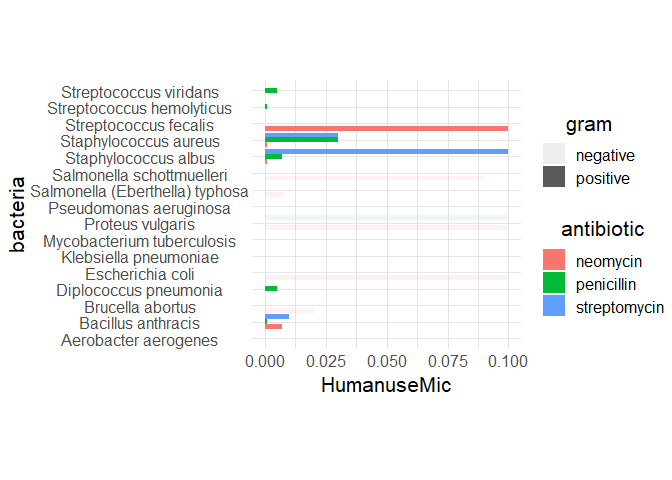
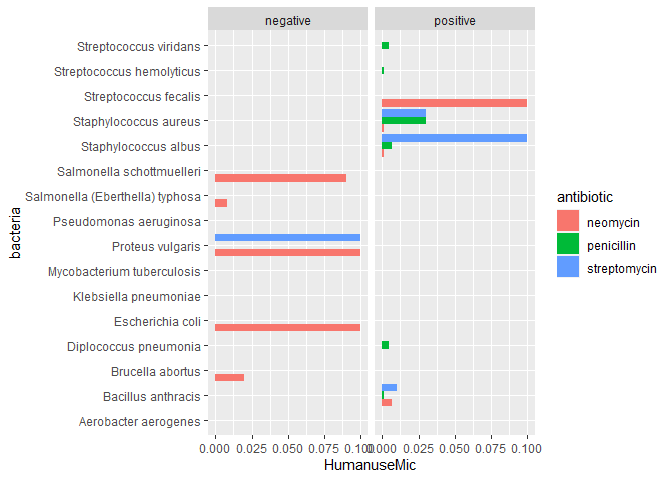
challenge 5 revisions

diff --git a/challenges/c05-antibiotics-assignment.md b/challenges/c05-antibiotics-assignment.md
@@ -210,11 +210,12 @@ positive or negative.
 # WRITE YOUR CODE HERE
 
 df_antibiotic_long %>%
-  mutate(logMic = log(mic)) %>% 
+  #mutate(logMic = log(mic)) %>% 
   arrange(gram) %>% 
-  ggplot(aes(antibiotic, bacteria, fill = logMic, color = gram)) +
+  ggplot(aes(antibiotic, bacteria, fill = mic)) +
   geom_tile() +
-  theme_common()
+  scale_fill_continuous(trans = "log10") +
+  facet_wrap( ~gram)
 ```
 
 ![](c05-antibiotics-assignment_files/figure-gfm/q1.1-1.png)<!-- -->
@@ -230,10 +231,10 @@ your other visuals.
 
 ``` r
 df_antibiotic_long %>%
-  mutate(logMic = log(mic)) %>% 
-  ggplot(aes(logMic, bacteria, color = antibiotic, shape = gram)) +
-  geom_point() +
-  theme_common()
+  ggplot(aes(mic, bacteria, fill = antibiotic)) +
+  geom_col(position = "dodge")+
+  facet_wrap( ~gram) +
+  scale_x_log10()
 ```
 
 ![](c05-antibiotics-assignment_files/figure-gfm/q1.2-1.png)<!-- -->
@@ -252,14 +253,14 @@ your other visuals.
 df_antibiotic_long %>%
   mutate(HumanuseMic = na_if(mic, mic <= 0.1)) %>% 
   #filter(mic <= 0.1) %>% 
-  ggplot(aes(bacteria, HumanuseMic, fill = antibiotic, alpha = gram)) +
+  ggplot(aes(bacteria, HumanuseMic, fill = antibiotic)) + #, alpha = gram
   geom_col(position = "dodge") +
-  coord_flip()+
-  theme_common()+
+  #scale_alpha_discrete(range = c(0.4, 1)) +
+  coord_flip() +
+  facet_wrap( ~gram) +
+  #theme_common()+
   ylim(0, 0.1)
 ```
-
-    ## Warning: Using alpha for a discrete variable is not advised.
 
     ## Warning: Removed 29 rows containing missing values (`geom_col()`).
 
@@ -276,11 +277,13 @@ your other visuals.
 
 ``` r
 # WRITE YOUR CODE HERE
+wid <- 0.5
+
 df_antibiotic_long %>%
   #arrange(desc(mic)) %>% 
   ggplot(aes(mic, bacteria, color = antibiotic, shape = gram)) +
-  geom_point() +
-  theme_common()+
+  geom_point(position = position_dodge(width = wid)) +
+  #theme_common()+
   xlim(0, 0.1)
 ```
 
@@ -299,12 +302,56 @@ your other visuals.
 
 ``` r
 # WRITE YOUR CODE HERE
-df_antibiotic_long %>%
-  mutate(logMic = log(mic)) %>% 
-  arrange(desc(gram)) %>% 
-  ggplot(aes(gram, bacteria, fill = logMic)) +
-  geom_tile() +
-  theme_common()
+df_antibiotics
+```
+
+    ## # A tibble: 16 × 5
+    ##    bacteria                        penicillin streptomycin neomycin gram    
+    ##    <chr>                                <dbl>        <dbl>    <dbl> <chr>   
+    ##  1 Aerobacter aerogenes               870             1       1.6   negative
+    ##  2 Brucella abortus                     1             2       0.02  negative
+    ##  3 Bacillus anthracis                   0.001         0.01    0.007 positive
+    ##  4 Diplococcus pneumonia                0.005        11      10     positive
+    ##  5 Escherichia coli                   100             0.4     0.1   negative
+    ##  6 Klebsiella pneumoniae              850             1.2     1     negative
+    ##  7 Mycobacterium tuberculosis         800             5       2     negative
+    ##  8 Proteus vulgaris                     3             0.1     0.1   negative
+    ##  9 Pseudomonas aeruginosa             850             2       0.4   negative
+    ## 10 Salmonella (Eberthella) typhosa      1             0.4     0.008 negative
+    ## 11 Salmonella schottmuelleri           10             0.8     0.09  negative
+    ## 12 Staphylococcus albus                 0.007         0.1     0.001 positive
+    ## 13 Staphylococcus aureus                0.03          0.03    0.001 positive
+    ## 14 Streptococcus fecalis                1             1       0.1   positive
+    ## 15 Streptococcus hemolyticus            0.001        14      10     positive
+    ## 16 Streptococcus viridans               0.005        10      40     positive
+
+``` r
+df_antibiotics %>%
+  ggplot(aes(neomycin, penicillin, color = bacteria, shape = gram)) +
+  geom_point() + 
+  # geom_text(
+  #    aes(label = bacteria),
+  #    
+  #    nudge_x = 0.05,
+  #    #hjust = 0, 
+  #    nudge_y = 0.5
+  #   # label = 'bacteria',
+  #   #check_overlap = TRUE
+  #   ) +
+  # geom_label(
+  #   aes(label = bacteria), 
+  #   # position = "doge",
+  #   nudge_x = .5,
+  #   nudge_y = .5,
+  #   size = 3,
+  #   label.padding = unit(0, "lines"),
+  #   label.r = unit(0, "lines"),
+  #   label.size = 0,
+  #   show.legend = FALSE
+  # #            ) +
+  # theme(legend.position = "none")+
+  scale_x_log10() +
+  scale_y_log10()
 ```
 
 ![](c05-antibiotics-assignment_files/figure-gfm/q1.5-1.png)<!-- -->
@@ -330,20 +377,22 @@ opportunity to think about why this is.**
 > and neomycin
 
 *Observations* - What is your response to the question above? -
-streptomycin is effective in treating humans against only 3 bacteria in
-this data set all of witch are gram positive. Outside of treating humans
-has a mid range effectiveness. Neomycin is effective in treating humans
-against 9 bacteria in this data set, 5 gram negative and 4 gram
-positive, the largest number of any antibiotic. Penicillin had the
-widest spread of effectiveness with the highest and lowest mic. It is
-effective in treating humans against 5 gram positive bacteria in this
-data set.
+streptomycin is effective in treating humans against only 4 bacteria in
+this data set 3 of witch are gram positive and 1 gram negative. Outside
+of treating humans it has a mid range effectiveness. Neomycin is
+effective in treating humans against 9 bacteria in this data set, 5 gram
+negative and 4 gram positive, the largest number of any antibiotic.
+Penicillin had the widest spread of effectiveness with the highest and
+lowest mic. It is effective in treating humans against 6 gram positive
+bacteria in this data set.
 
 \- Which of your visuals above (1 through 5) is **most effective** at
 helping to answer this question? - 2 and 4
 
 - Why? - two helped me see the bigger picture and four made it easy to
-  see how effective they actually were in humans
+  see how effective they actually were in humans since I limited it to
+  showmic only mic values at or under the effectiveness threshold for
+  humans
 
 #### Guiding Question 2
 
@@ -354,17 +403,19 @@ and in 1984 *Streptococcus fecalis* was renamed *Enterococcus fecalis*
 > Why was *Diplococcus pneumoniae* was renamed *Streptococcus
 > pneumoniae*?
 
-*Observations* - What is your response to the question above? - I am not
-sure that we have enough information to anser this question, I don’t
-totally understand what the change means even after googling, but from
-looking at my graphs it seems like it might have been renamed because it
-is gram negative? or because panicillin has a similar amount of
-effectiveness on it compare to other strepto caucouse?
+*Observations* - What is your response to the question above? - In
+figure five you can see that Diplococcus pneumoniae is clustered with
+all of the *Streptococcus* bacteria, except Streptococcus fecalis,
+having a low mic for penicilin and a high mic for neomicin. Where as
+Streptococcus fecalis is closer to a cluster of gram negative bacteria
+with mid range mic for both antibiotics.
 
 \- Which of your visuals above (1 through 5) is **most effective** at
-helping to answer this question? - (Write your response here) 5 and 4
+helping to answer this question? - 5
 
-\- Why? - five very clearly shows gram positive vs gram negative
+\- Why? - five very clearly shows how most similar bacteria have similar
+reactions to penicillin and neomicin with the notable exception of these
+two bacteria
 
 References
 
